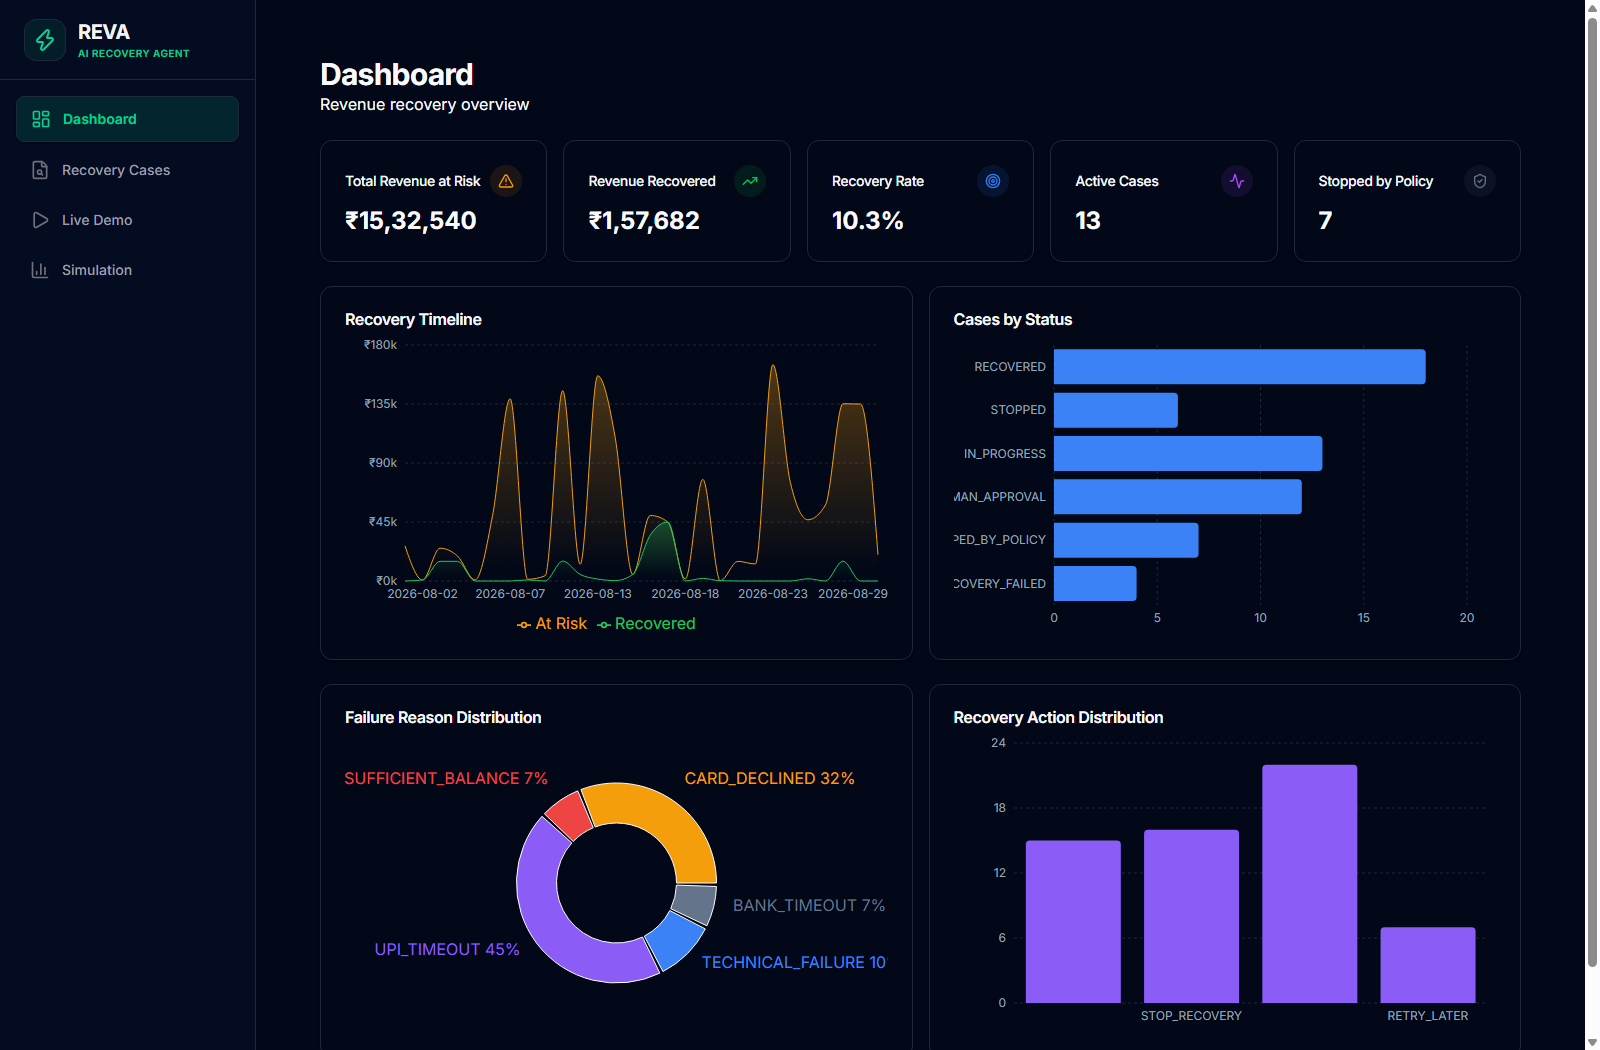
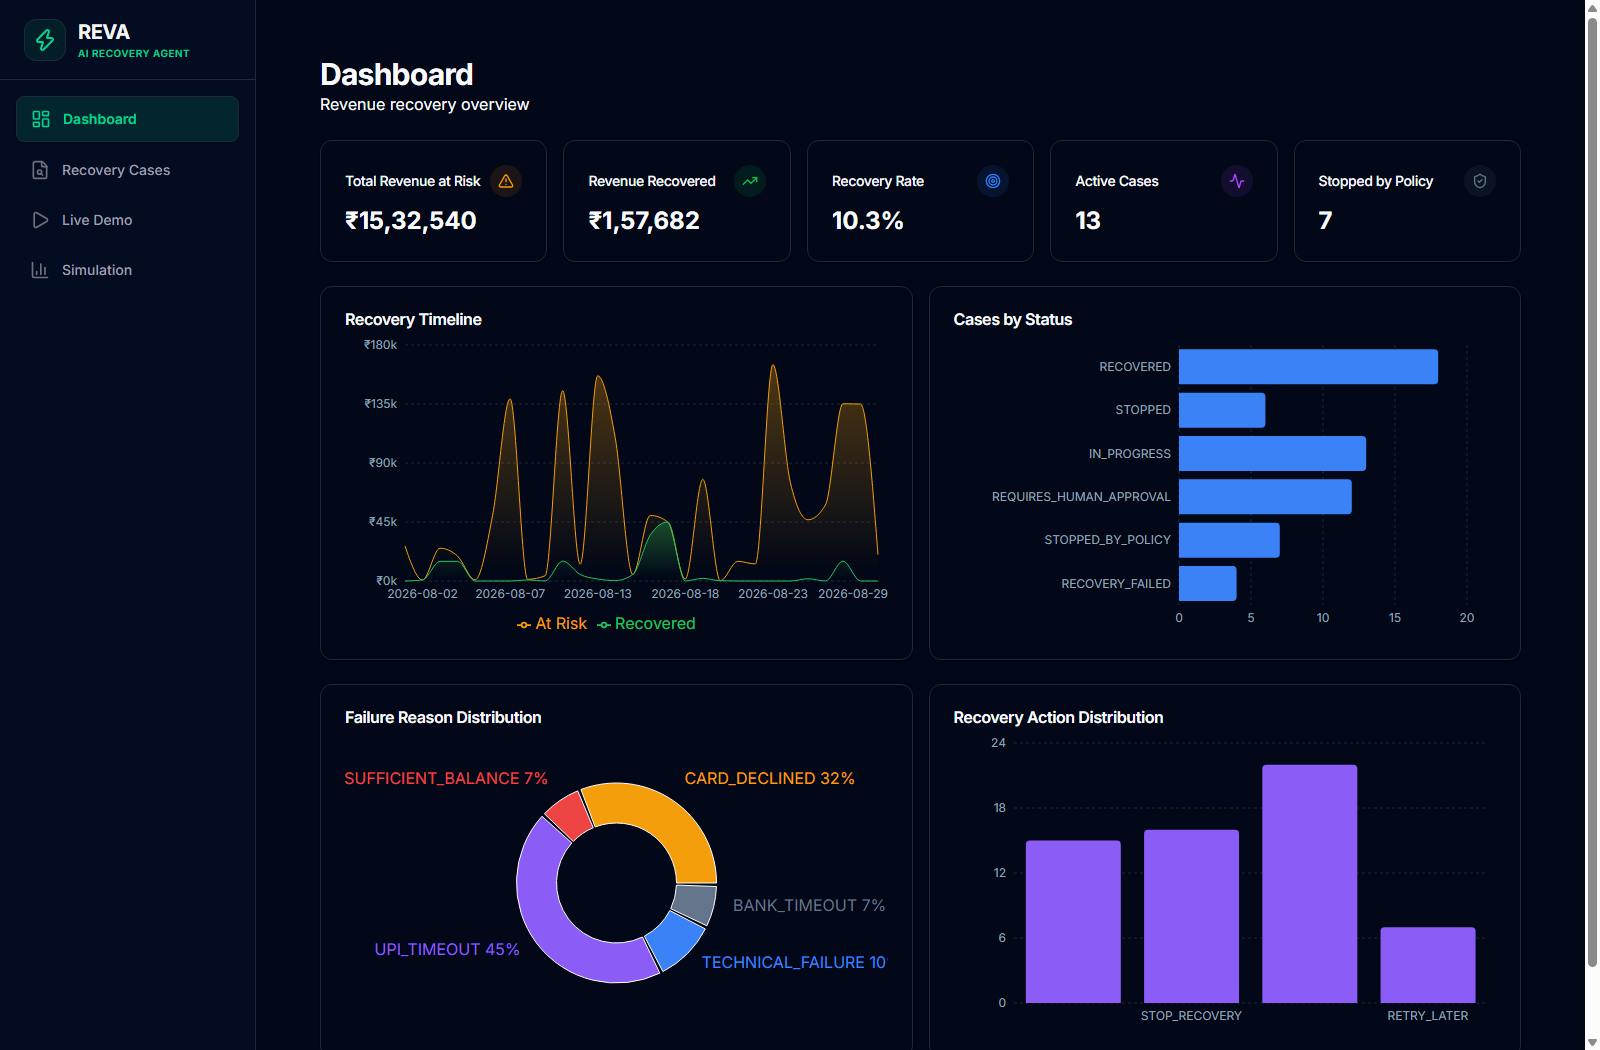
Fix status label clipping in Cases by Status chart and refine backend routes

Changed region(s): [[0.5938, 0.3352, 0.875, 0.579], [0.875, 0.3352, 0.9062, 0.3657]]

diff --git a/dashboard/app/page.tsx b/dashboard/app/page.tsx
@@ -244,10 +244,18 @@ export default function DashboardPage() {
 
         <ChartCard title="Cases by Status">
           <ResponsiveContainer width="100%" height={300}>
-            <BarChart data={analytics?.cases_by_status || []} layout="vertical" margin={{ top: 10, right: 30, left: 40, bottom: 0 }}>
+            <BarChart data={analytics?.cases_by_status || []} layout="vertical" margin={{ top: 10, right: 30, left: 15, bottom: 0 }}>
               <CartesianGrid strokeDasharray="3 3" horizontal={false} stroke="hsl(var(--border))" />
               <XAxis type="number" stroke="hsl(var(--muted-foreground))" fontSize={12} tickLine={false} axisLine={false} />
-              <YAxis dataKey="status" type="category" stroke="hsl(var(--muted-foreground))" fontSize={12} tickLine={false} axisLine={false} />
+              <YAxis 
+                dataKey="status" 
+                type="category" 
+                stroke="hsl(var(--muted-foreground))" 
+                fontSize={12} 
+                tickLine={false} 
+                axisLine={false}
+                width={210}
+              />
               <Tooltip 
                 cursor={{ fill: 'hsl(var(--muted))', opacity: 0.2 }}
                 contentStyle={{ backgroundColor: 'hsl(var(--popover))', borderColor: 'hsl(var(--border))', borderRadius: '8px' }}

diff --git a/server/app/config.py b/server/app/config.py
@@ -39,7 +39,7 @@ class Settings(BaseSettings):
         url = self.supabase_url.strip()
         key = self.supabase_service_role_key.strip()
         url_valid = bool(url and url.startswith("https://") and "your-project" not in url.lower())
-        key_valid = bool(key and not key.startswith("your_") and not key.startswith("YOUR_") and len(key) > 20)
+        key_valid = bool(key and key.startswith("eyJ") and not key.startswith("your_") and not key.startswith("YOUR_") and len(key) > 20)
         if self.database_mode in ("real", "supabase"):
             return url_valid and key_valid
         # Auto mode

diff --git a/server/app/api/demo.py b/server/app/api/demo.py
@@ -348,6 +348,7 @@ def run_demo_scenario(req: DemoScenarioRequest):
     return _execute_scenario_flow(scenario, req.scenario)
 
 
+@router.post("/api/demo/run-custom")
 @router.post("/api/demo/run-custom-scenario")
 def run_custom_scenario(req: CustomScenarioRequest):
     """Run an interactive custom scenario with user-defined parameters."""
